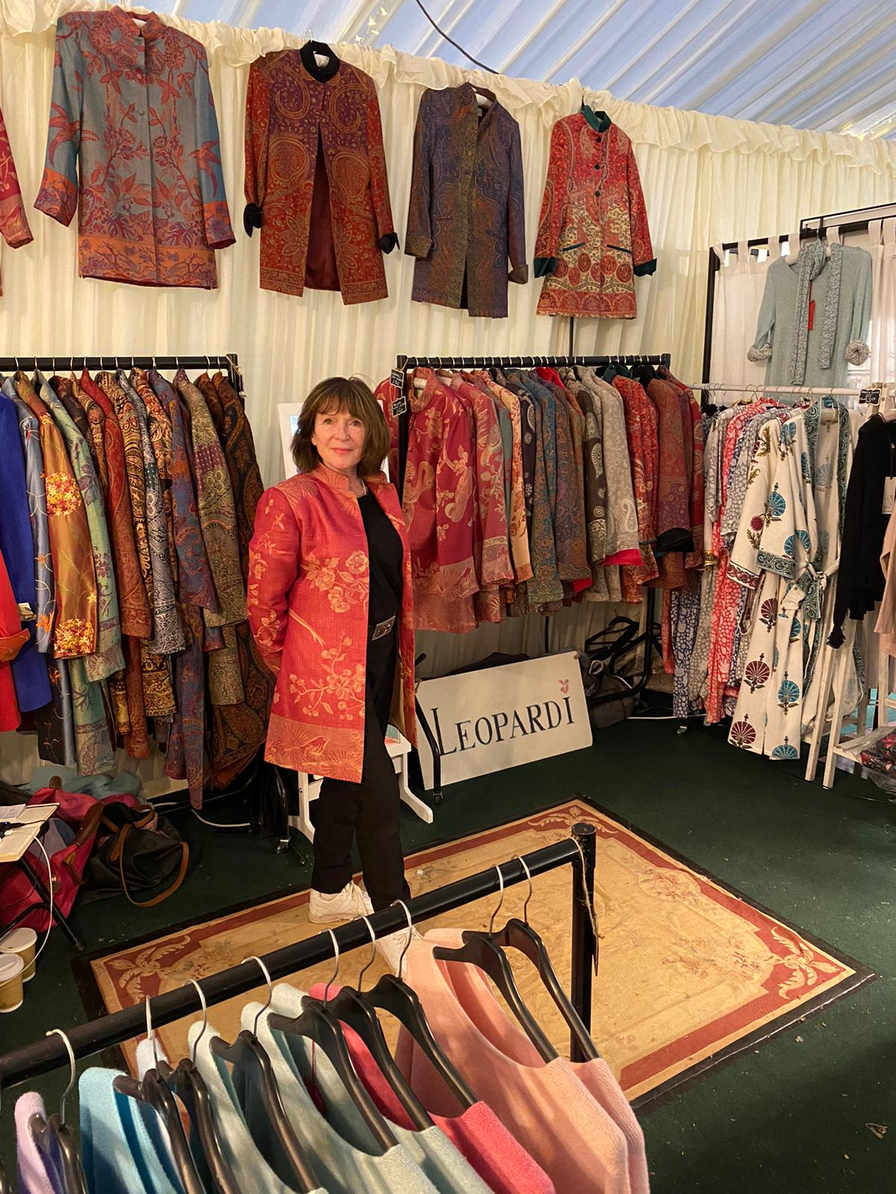
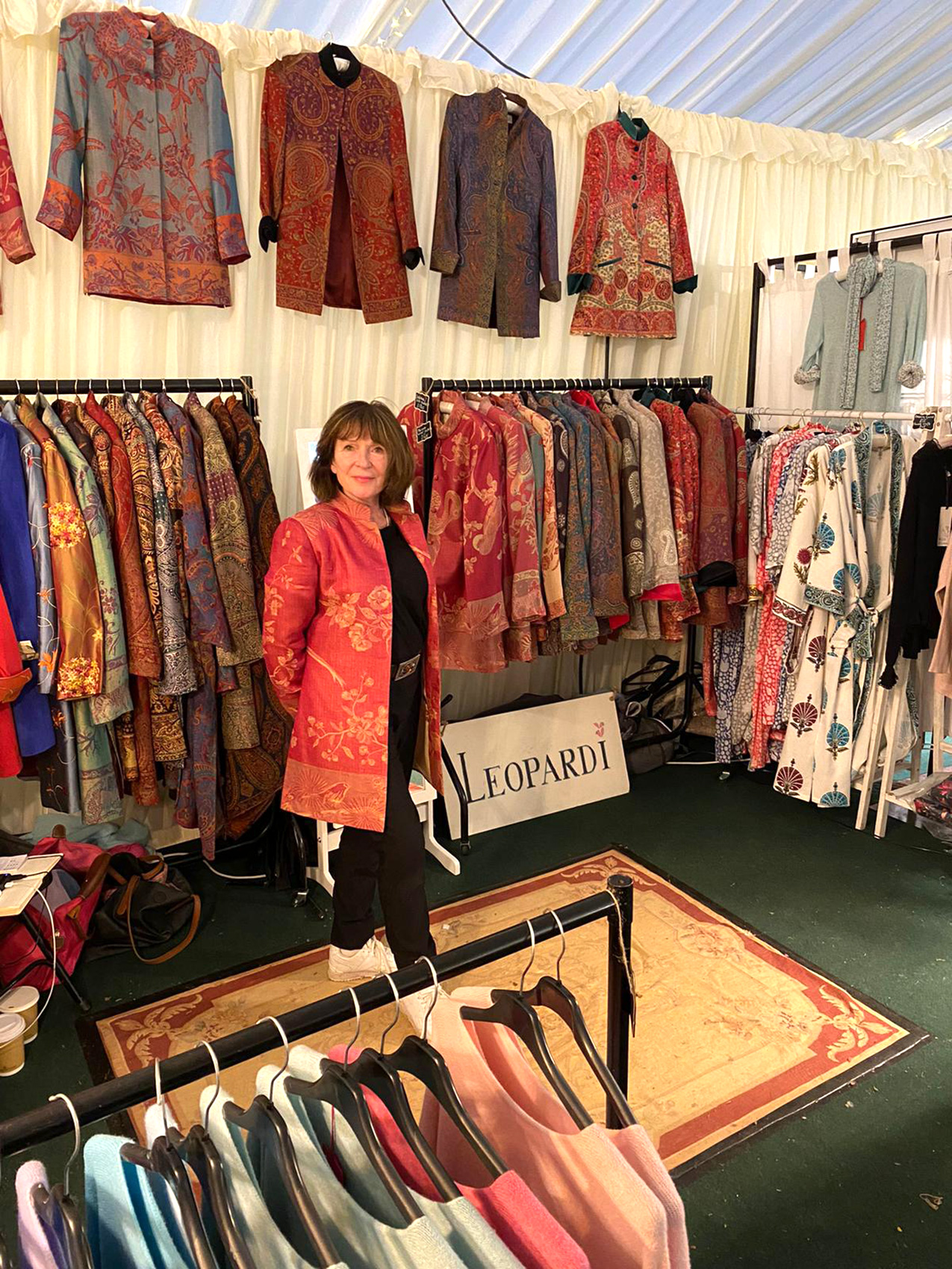
fix

diff --git a/pages/contact.jsx b/pages/contact.jsx
@@ -47,7 +47,7 @@ const contact = () => {
                   </div>
                   <div className={styles['contactpage__right--list']}>
                     <Image
-                      src="/assets/leopardi-contact-pic.jpg"
+                      src="/assets/leopardi-contact-pic.webp"
                       alt="contact"
                       layout="fill"
                       objectFit="cover"

diff --git a/pages/events.jsx b/pages/events.jsx
@@ -67,7 +67,7 @@ const events = () => {
             </div>
           </div>
           <EtsyCta
-            pic="/assets/banner-1.png"
+            pic="/assets/banner-1.webp"
             text1="Want to See All Our Offerings?"
             text2="Check Out Our Etsy Store."
           />
